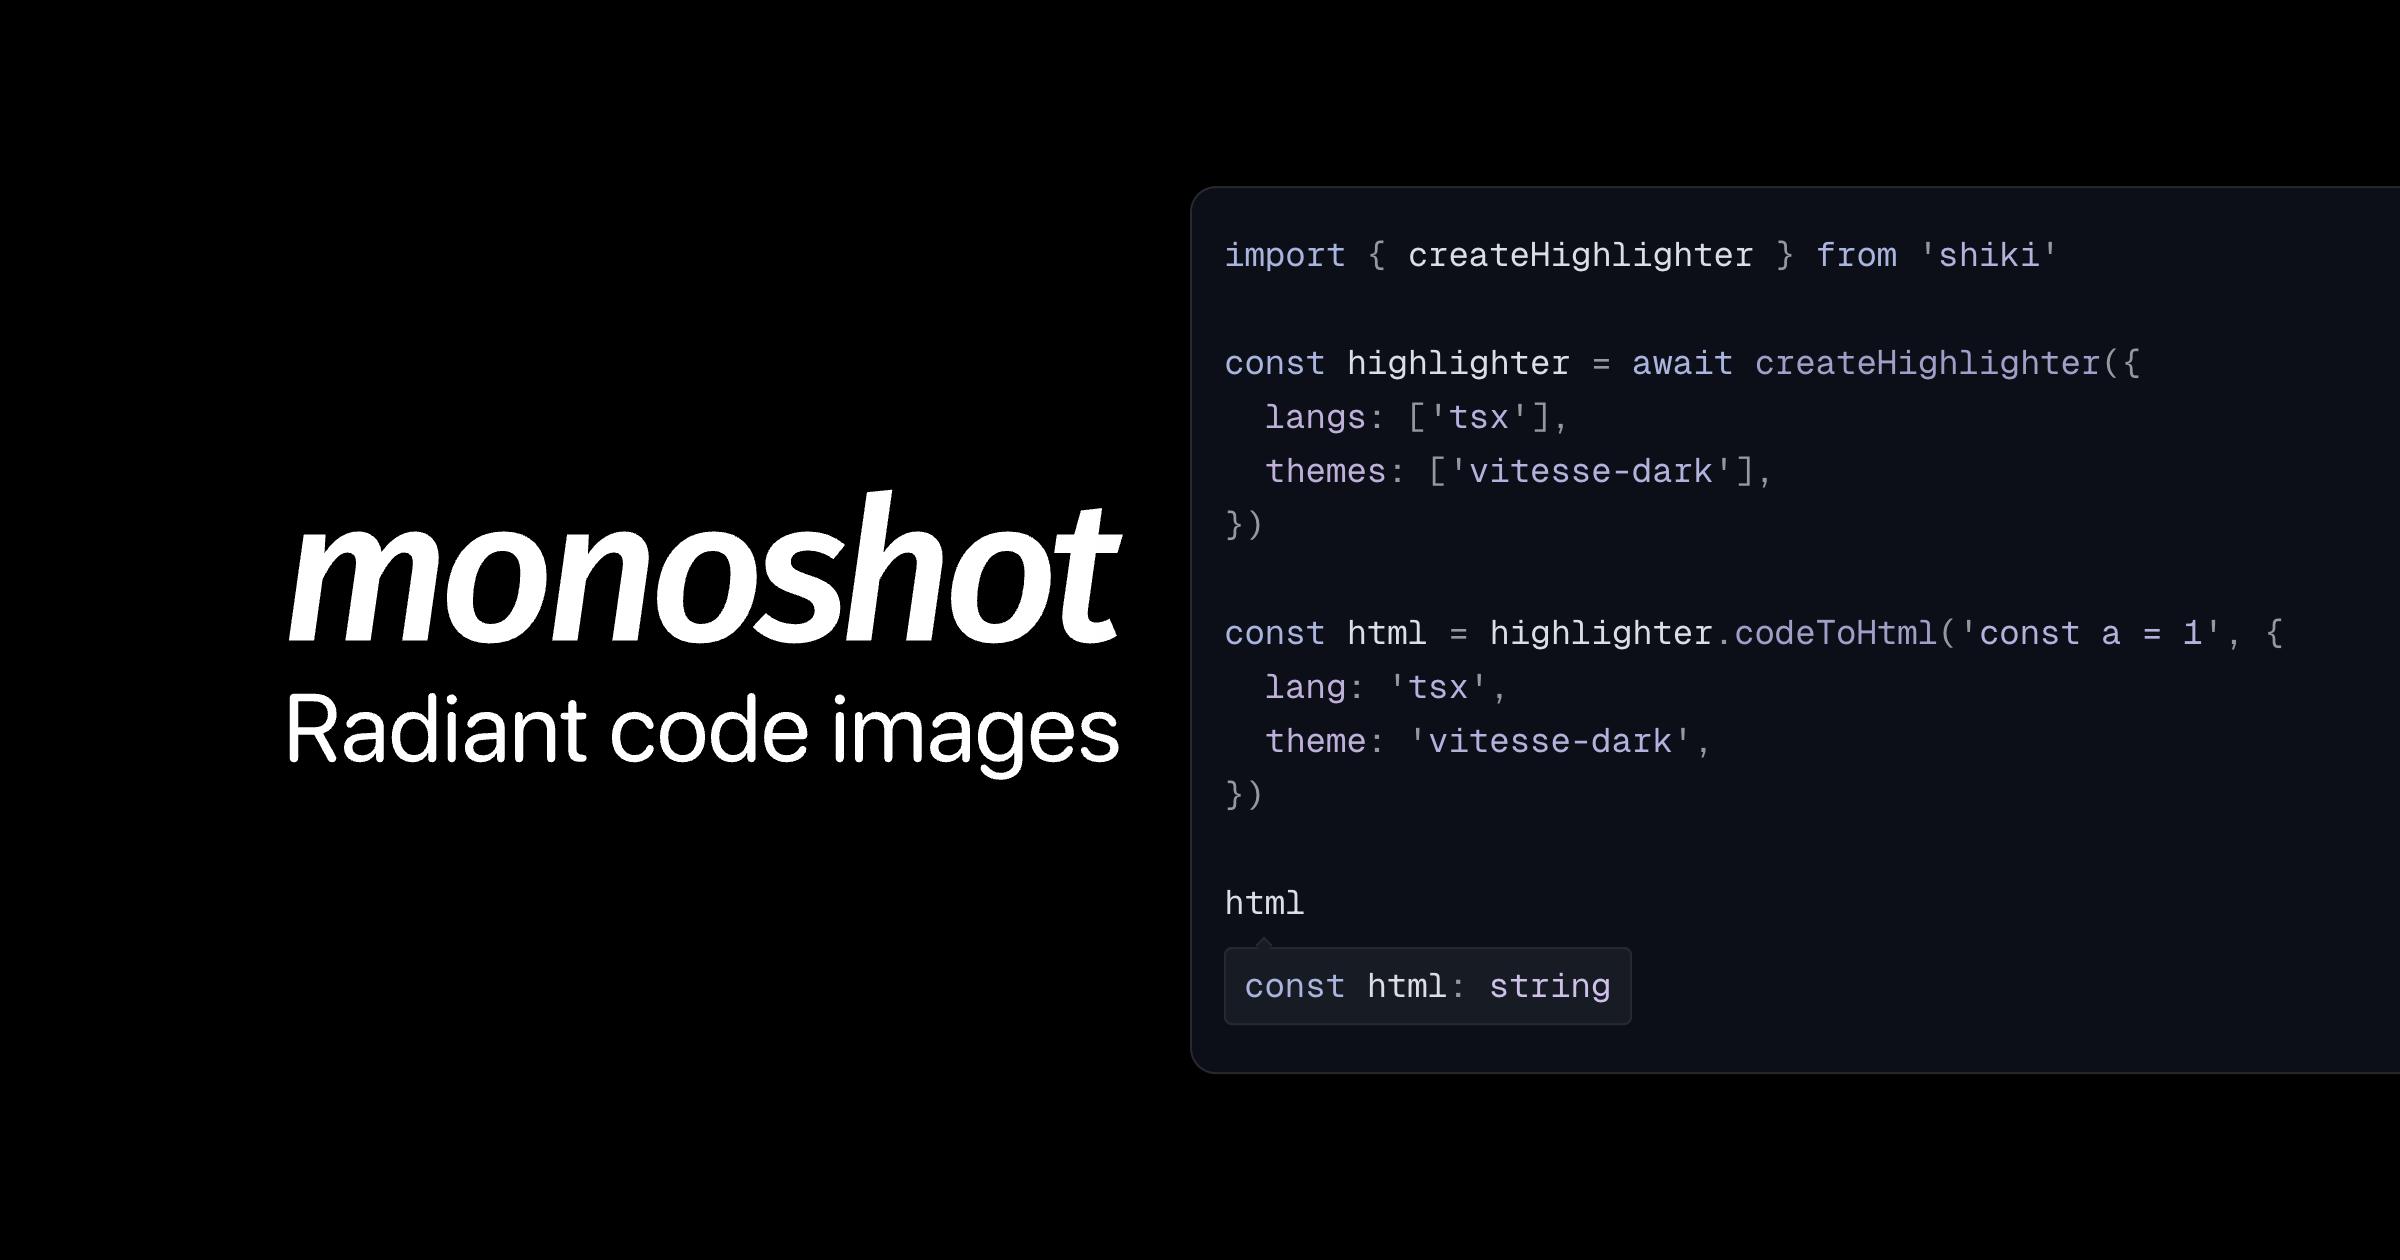
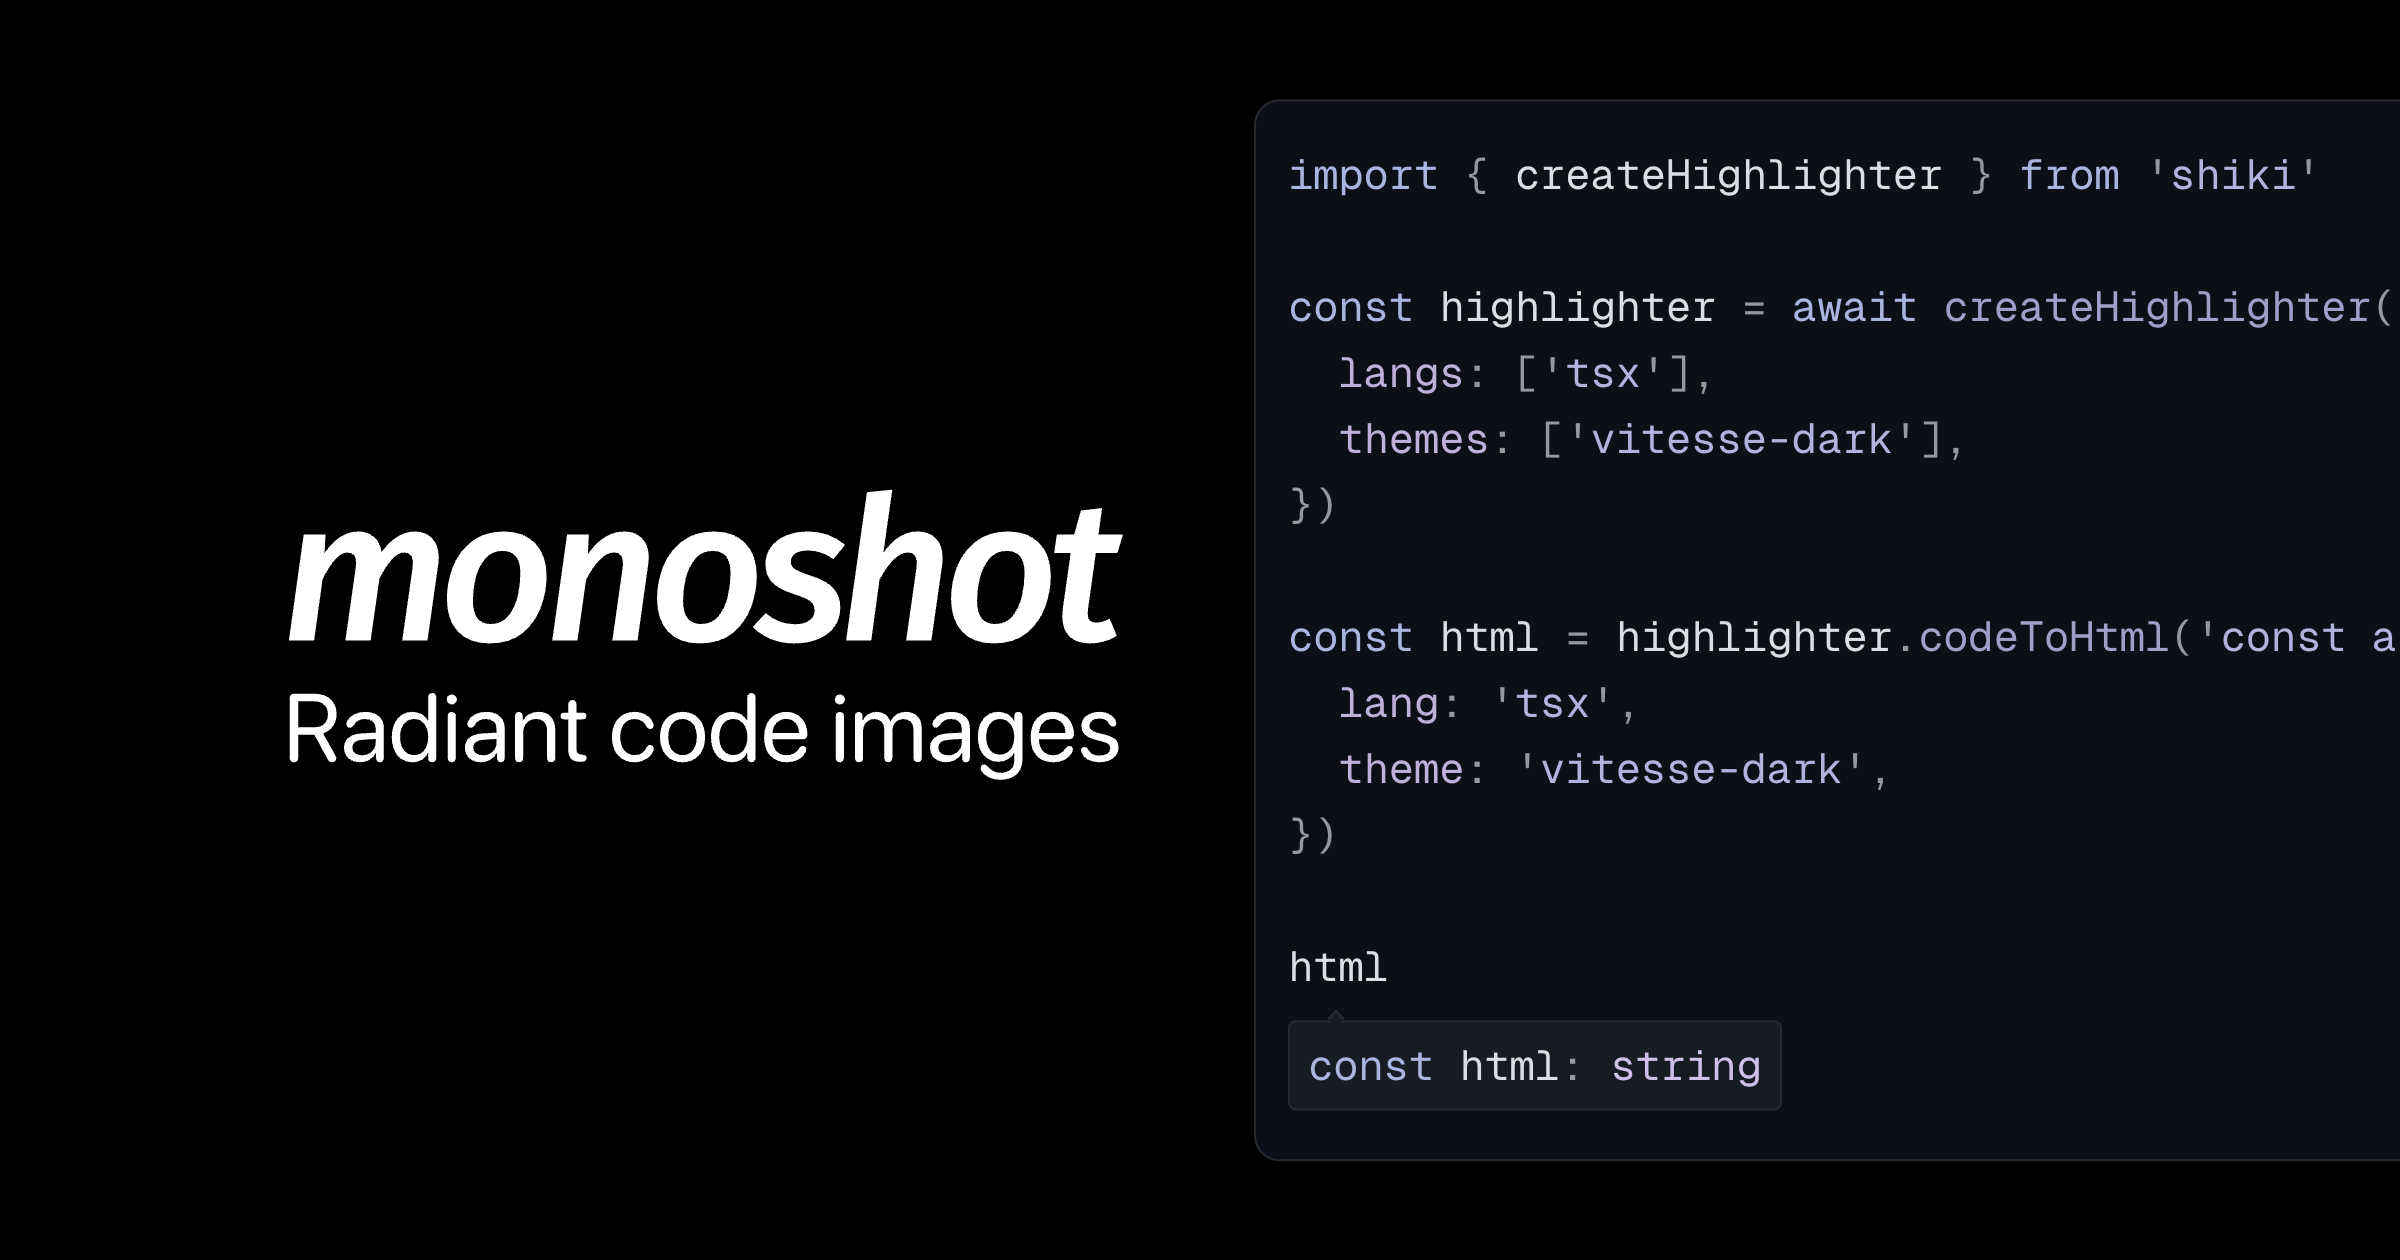
feat(app): run the card's frame further past the edge
Wide enough that lines are cut by the crop rather than fitted inside it, and short of the wordmark, which the frame was covering.

diff --git a/app/scripts/og.ts b/app/scripts/og.ts
@@ -10,7 +10,7 @@ import { sample } from '../src/lib/sample.js'
 const card = { height: 630, scale: 2, width: 1200 } as const
 
 /** Where the frame starts, and how far it runs past the right edge. */
-const frameAt = { bleed: 320, left: 596 } as const
+const frameAt = { bleed: 560, left: 628 } as const
 
 /**
  * Draws the link preview: the wordmark, and the snippet the app opens on.
@@ -81,9 +81,9 @@ body {
   background: transparent !important;
   color: ${palette.window.foreground};
   font-family: 'Geist Mono', ui-monospace, monospace;
-  font-size: 17px;
+  font-size: 21px;
   font-variant-ligatures: none;
-  line-height: 27px;
+  line-height: 33px;
   tab-size: 2;
   white-space: pre;
 }
